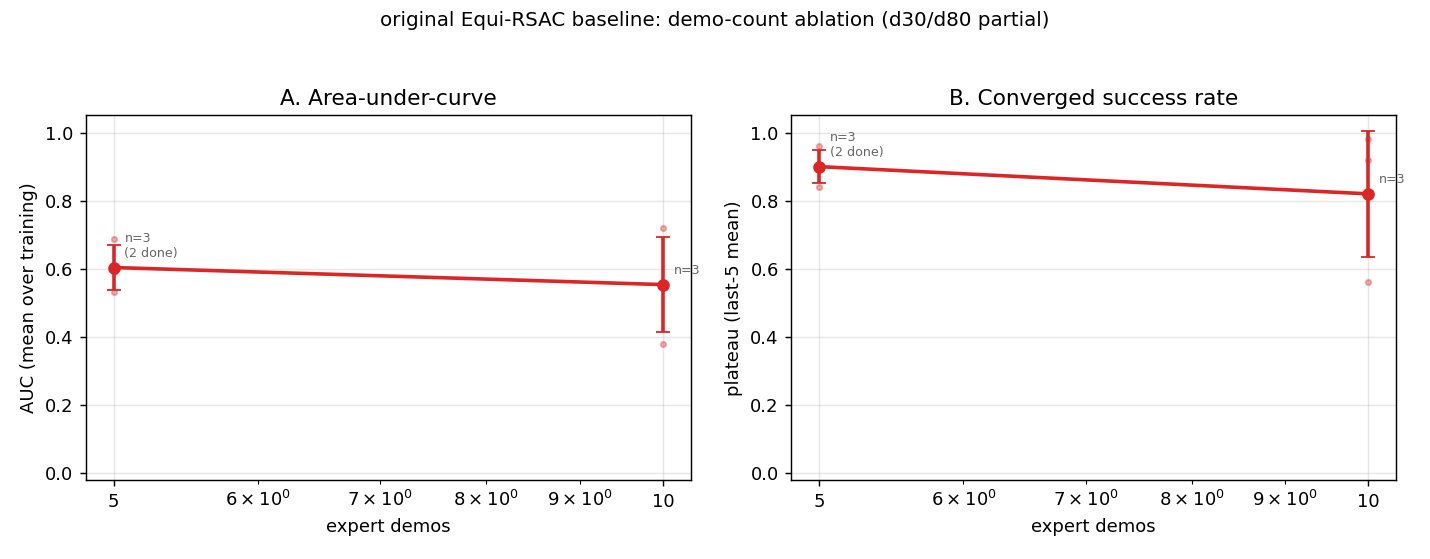
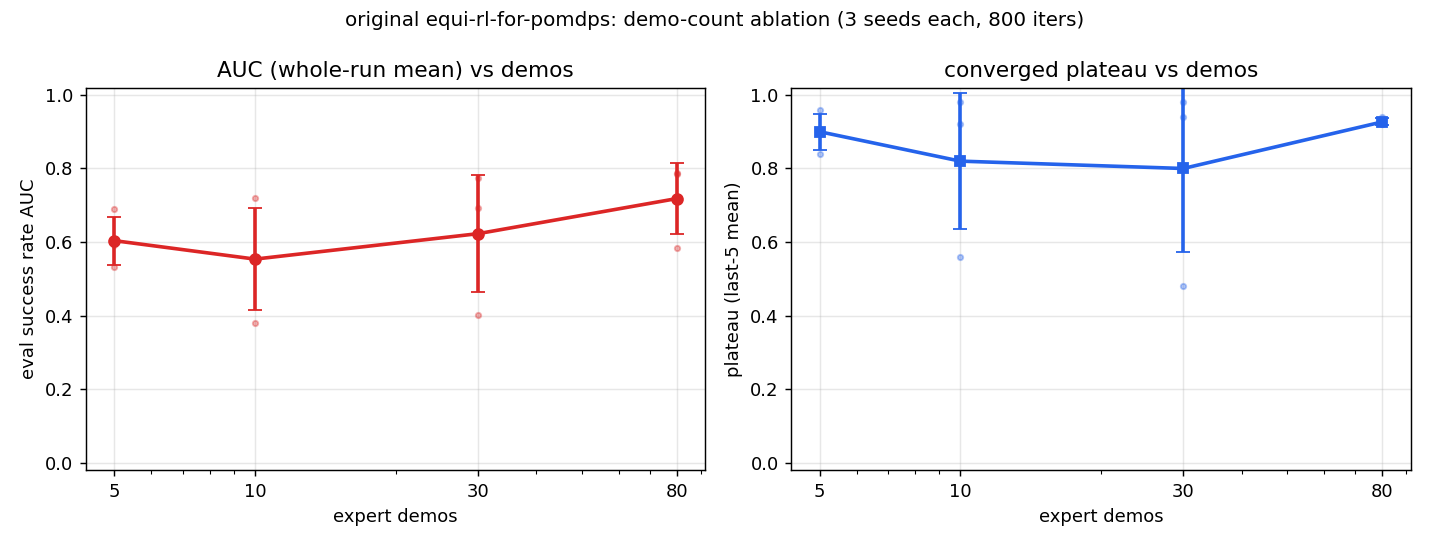
Demo ablation COMPLETE (d5/10/30/80 x3 seeds): plateau flat from d5, variance is bimodal seed-collapse
All 12 runs finished (800 iters/41k steps). Offline-only plot script
(plot_ablation_offline.py) since the wandb API is unreachable from the
sandbox; guard read_wandb_hist.py top-level code under __main__ so it can
be imported.

AUC mean+/-std / plateau(last-5):
  d5:  0.604+/-0.065 / 0.90
  d10: 0.554+/-0.139 / 0.82  (s0 collapsed: plateau 0.56)
  d30: 0.623+/-0.159 / 0.80  (s1 collapsed: plateau 0.48)
  d80: 0.718+/-0.096 / 0.93  (all 3 seeds >=0.92)

The plateau is flat ~0.9 from 5 demos up; the only real signal is that
low-demo points each carry one collapsed seed while d80 has none -> more
demos buys training STABILITY, not a higher ceiling. No data-scarcity
regime on the original heightmap task (fork occup task, where mea_v2 is
tested, is harder -- fork d15 BASE AUC only 0.388).

diff --git a/bash/plot_ablation_offline.py b/bash/plot_ablation_offline.py
@@ -1,0 +1,131 @@
+# -*- coding: utf-8 -*-
+"""Offline demo-count ablation summary + figure for the ORIGINAL
+equi-rl-for-pomdps baseline, read straight from the local .wandb binaries
+(no network -- the wandb API is unreachable from the sandbox).
+
+Groups runs by the --num_expert_episodes recorded in each run's
+files/wandb-metadata.json, reads (env_steps, success_rate_eval) via
+read_wandb_hist.read_history, and writes a 2-panel figure (AUC + plateau
+vs demo count) plus a per-seed table.
+
+    python bash/plot_ablation_offline.py \
+        --root ext/equi-rl-for-pomdps-original/wandb \
+        --out  context/plan/demo_ablation.png
+"""
+import argparse
+import glob
+import json
+import os
+import sys
+import warnings
+
+warnings.filterwarnings("ignore")
+import numpy as np
+
+sys.path.insert(0, os.path.dirname(os.path.abspath(__file__)))
+from read_wandb_hist import read_history, convergence
+
+
+def run_meta(run_dir):
+    meta = os.path.join(run_dir, "files", "wandb-metadata.json")
+    if not os.path.exists(meta):
+        return None
+    a = json.load(open(meta)).get("args", [])
+
+    def g(k):
+        return a[a.index(k) + 1] if k in a else None
+
+    demos = g("--num_expert_episodes")
+    seed = g("--seed")
+    prefix = g("--prefix") or ""
+    if demos is None:
+        return None
+    return int(demos), (int(seed) if seed is not None else -1), prefix
+
+
+def main():
+    ap = argparse.ArgumentParser()
+    ap.add_argument("--root", default="ext/equi-rl-for-pomdps-original/wandb")
+    ap.add_argument("--out", default="context/plan/demo_ablation.png")
+    ap.add_argument("--prefix", default="abl_",
+                    help="only runs whose --prefix contains this token")
+    args = ap.parse_args()
+
+    per_demo = {}   # demos -> list of (seed, auc, plateau, conv_step, npts)
+    for run_dir in sorted(glob.glob(os.path.join(args.root, "run-*")),
+                          key=os.path.getmtime):
+        m = run_meta(run_dir)
+        if not m:
+            continue
+        demos, seed, prefix = m
+        if args.prefix not in prefix:
+            continue
+        wf = glob.glob(os.path.join(run_dir, "*.wandb"))
+        if not wf:
+            continue
+        pts = read_history(wf[0])
+        if not pts:
+            continue
+        auc = float(np.mean([s for _, s in pts]))
+        plateau = float(np.mean([s for _, s in pts[-5:]]))
+        cenv = convergence(pts)[0] if convergence(pts) else None
+        # keep the newest run per (demos, seed) -- glob is mtime-sorted asc
+        per_demo.setdefault(demos, {})[seed] = (auc, plateau, cenv, len(pts))
+
+    if not per_demo:
+        print(f"no abl_ runs under {args.root}")
+        return
+
+    print(f"\n== original Equi-RSAC baseline -- demo-count ablation (COMPLETE) ==")
+    print(f"{'demos':>5} | {'n':>1} | {'AUC mean+/-std':>16} | "
+          f"{'plateau':>7} | per-seed  auc/plateau/conv")
+    ds = sorted(per_demo)
+    summ = {}
+    for d in ds:
+        rows = sorted(per_demo[d].items())
+        aucs = np.array([v[0] for _, v in rows])
+        plats = np.array([v[1] for _, v in rows])
+        detail = "  ".join(
+            f"s{s}={v[0]:.2f}/{v[1]:.2f}/{(v[2]/1000 if v[2] else 0):.0f}k"
+            for s, v in rows)
+        summ[d] = (aucs.mean(), aucs.std(), plats.mean(), plats.std())
+        print(f"{d:>5} | {len(rows):>1} | {aucs.mean():>7.3f}+/-{aucs.std():<6.3f} | "
+              f"{plats.mean():>7.2f} | {detail}")
+
+    try:
+        import matplotlib
+        matplotlib.use("Agg")
+        import matplotlib.pyplot as plt
+        fig, (ax1, ax2) = plt.subplots(1, 2, figsize=(11, 4.2))
+        am = [summ[d][0] for d in ds]
+        asd = [summ[d][1] for d in ds]
+        pm = [summ[d][2] for d in ds]
+        psd = [summ[d][3] for d in ds]
+        ax1.errorbar(ds, am, yerr=asd, marker="o", capsize=4, color="#dc2626", lw=2)
+        for d in ds:
+            for s, v in per_demo[d].items():
+                ax1.plot(d, v[0], ".", color="#dc2626", alpha=0.35)
+        ax1.set_xscale("log"); ax1.set_xticks(ds); ax1.set_xticklabels([str(d) for d in ds])
+        ax1.set_xlabel("expert demos"); ax1.set_ylabel("eval success rate AUC")
+        ax1.set_ylim(-0.02, 1.02); ax1.grid(alpha=0.3)
+        ax1.set_title("AUC (whole-run mean) vs demos")
+        ax2.errorbar(ds, pm, yerr=psd, marker="s", capsize=4, color="#2563eb", lw=2)
+        for d in ds:
+            for s, v in per_demo[d].items():
+                ax2.plot(d, v[1], ".", color="#2563eb", alpha=0.35)
+        ax2.set_xscale("log"); ax2.set_xticks(ds); ax2.set_xticklabels([str(d) for d in ds])
+        ax2.set_xlabel("expert demos"); ax2.set_ylabel("plateau (last-5 mean)")
+        ax2.set_ylim(-0.02, 1.02); ax2.grid(alpha=0.3)
+        ax2.set_title("converged plateau vs demos")
+        fig.suptitle("original equi-rl-for-pomdps: demo-count ablation "
+                     "(3 seeds each, 800 iters)", fontsize=11)
+        fig.tight_layout()
+        os.makedirs(os.path.dirname(args.out) or ".", exist_ok=True)
+        fig.savefig(args.out, dpi=130)
+        print(f"\nsaved -> {args.out}")
+    except Exception as e:
+        print(f"plot skipped: {e}")
+
+
+if __name__ == "__main__":
+    main()

diff --git a/bash/read_wandb_hist.py b/bash/read_wandb_hist.py
@@ -57,22 +57,23 @@ def convergence(pts, frac=0.9):
     return pts[-1][0], plateau, thresh
 
 
-for wf in sys.argv[1:]:
-    label = os.path.basename(os.path.dirname(wf))
-    pts = read_history(wf)
-    if not pts:
-        print(f"\n{label}: NO history points"); continue
-    auc = sum(s for _, s in pts) / len(pts)
-    conv = convergence(pts)
-    print(f"\n=== {label} ===")
-    print(f"  eval points: {len(pts)}  last_env={pts[-1][0]:.0f}  "
-          f"final_sr={pts[-1][1]:.2f}  AUC={auc:.3f}")
-    if conv:
-        cenv, plateau, thresh = conv
-        print(f"  plateau(last5 mean)={plateau:.2f}  converge@>= {thresh:.2f}: "
-              f"env_step {cenv:.0f}  (= iter {cenv/50:.0f}, "
-              f"{100*cenv/pts[-1][0]:.0f}% of run)")
-    # downsampled curve
-    step = max(1, len(pts) // 12)
-    curve = " ".join(f"{e/1000:.0f}k:{s:.1f}" for e, s in pts[::step])
-    print(f"  curve: {curve}")
+if __name__ == "__main__":
+    for wf in sys.argv[1:]:
+        label = os.path.basename(os.path.dirname(wf))
+        pts = read_history(wf)
+        if not pts:
+            print(f"\n{label}: NO history points"); continue
+        auc = sum(s for _, s in pts) / len(pts)
+        conv = convergence(pts)
+        print(f"\n=== {label} ===")
+        print(f"  eval points: {len(pts)}  last_env={pts[-1][0]:.0f}  "
+              f"final_sr={pts[-1][1]:.2f}  AUC={auc:.3f}")
+        if conv:
+            cenv, plateau, thresh = conv
+            print(f"  plateau(last5 mean)={plateau:.2f}  converge@>= {thresh:.2f}: "
+                  f"env_step {cenv:.0f}  (= iter {cenv/50:.0f}, "
+                  f"{100*cenv/pts[-1][0]:.0f}% of run)")
+        # downsampled curve
+        step = max(1, len(pts) // 12)
+        curve = " ".join(f"{e/1000:.0f}k:{s:.1f}" for e, s in pts[::step])
+        print(f"  curve: {curve}")
